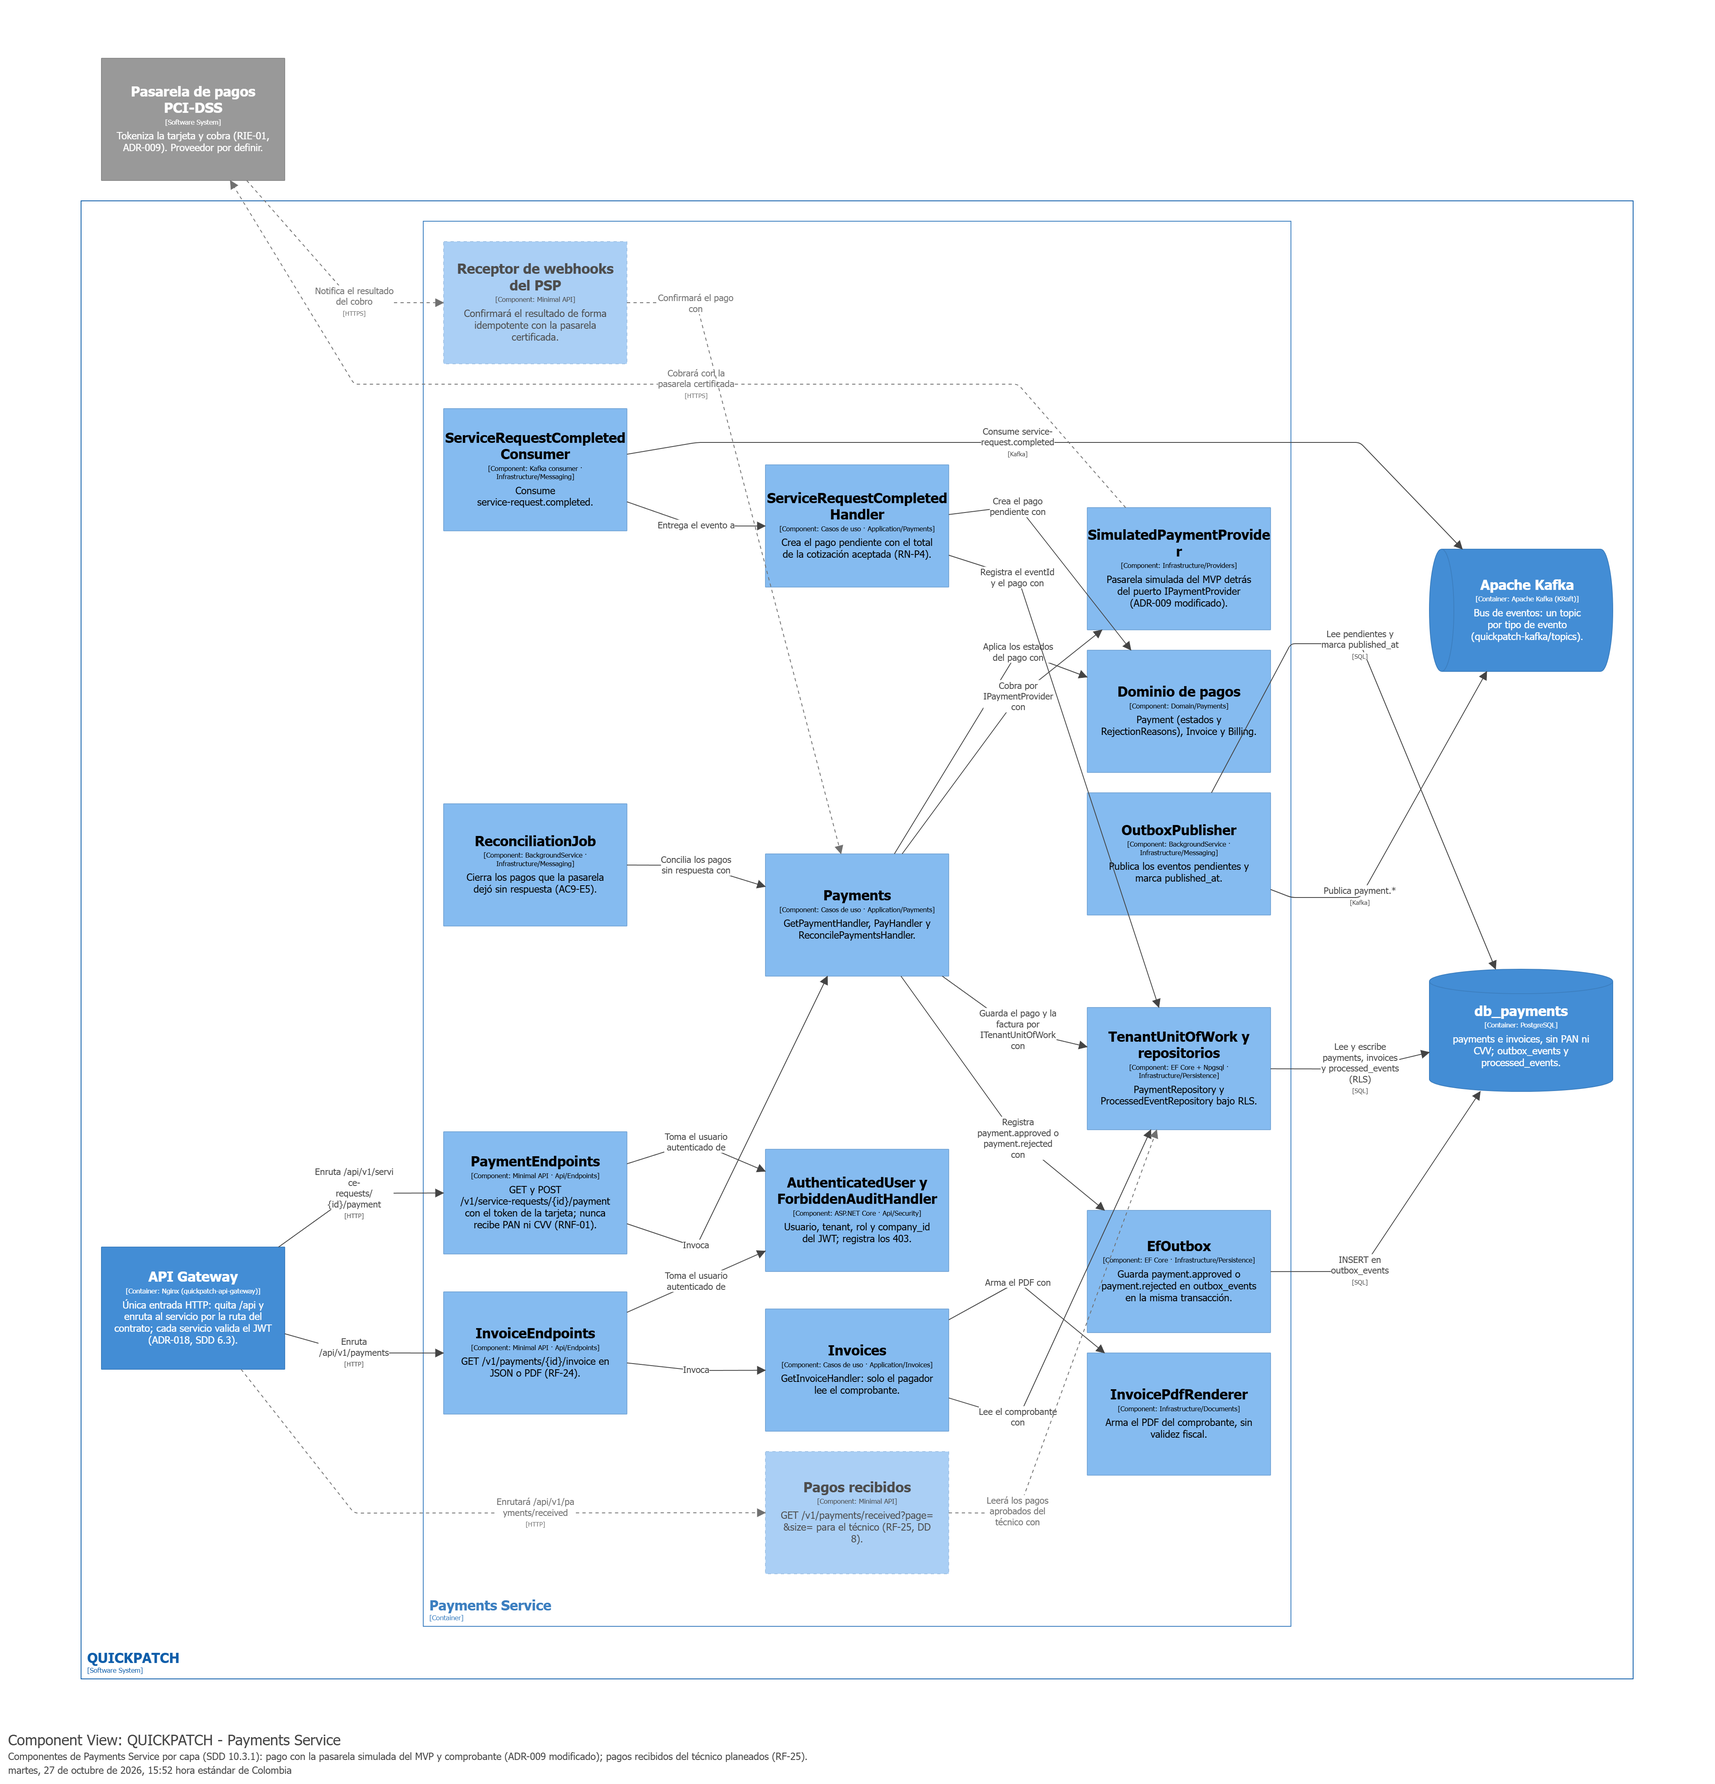
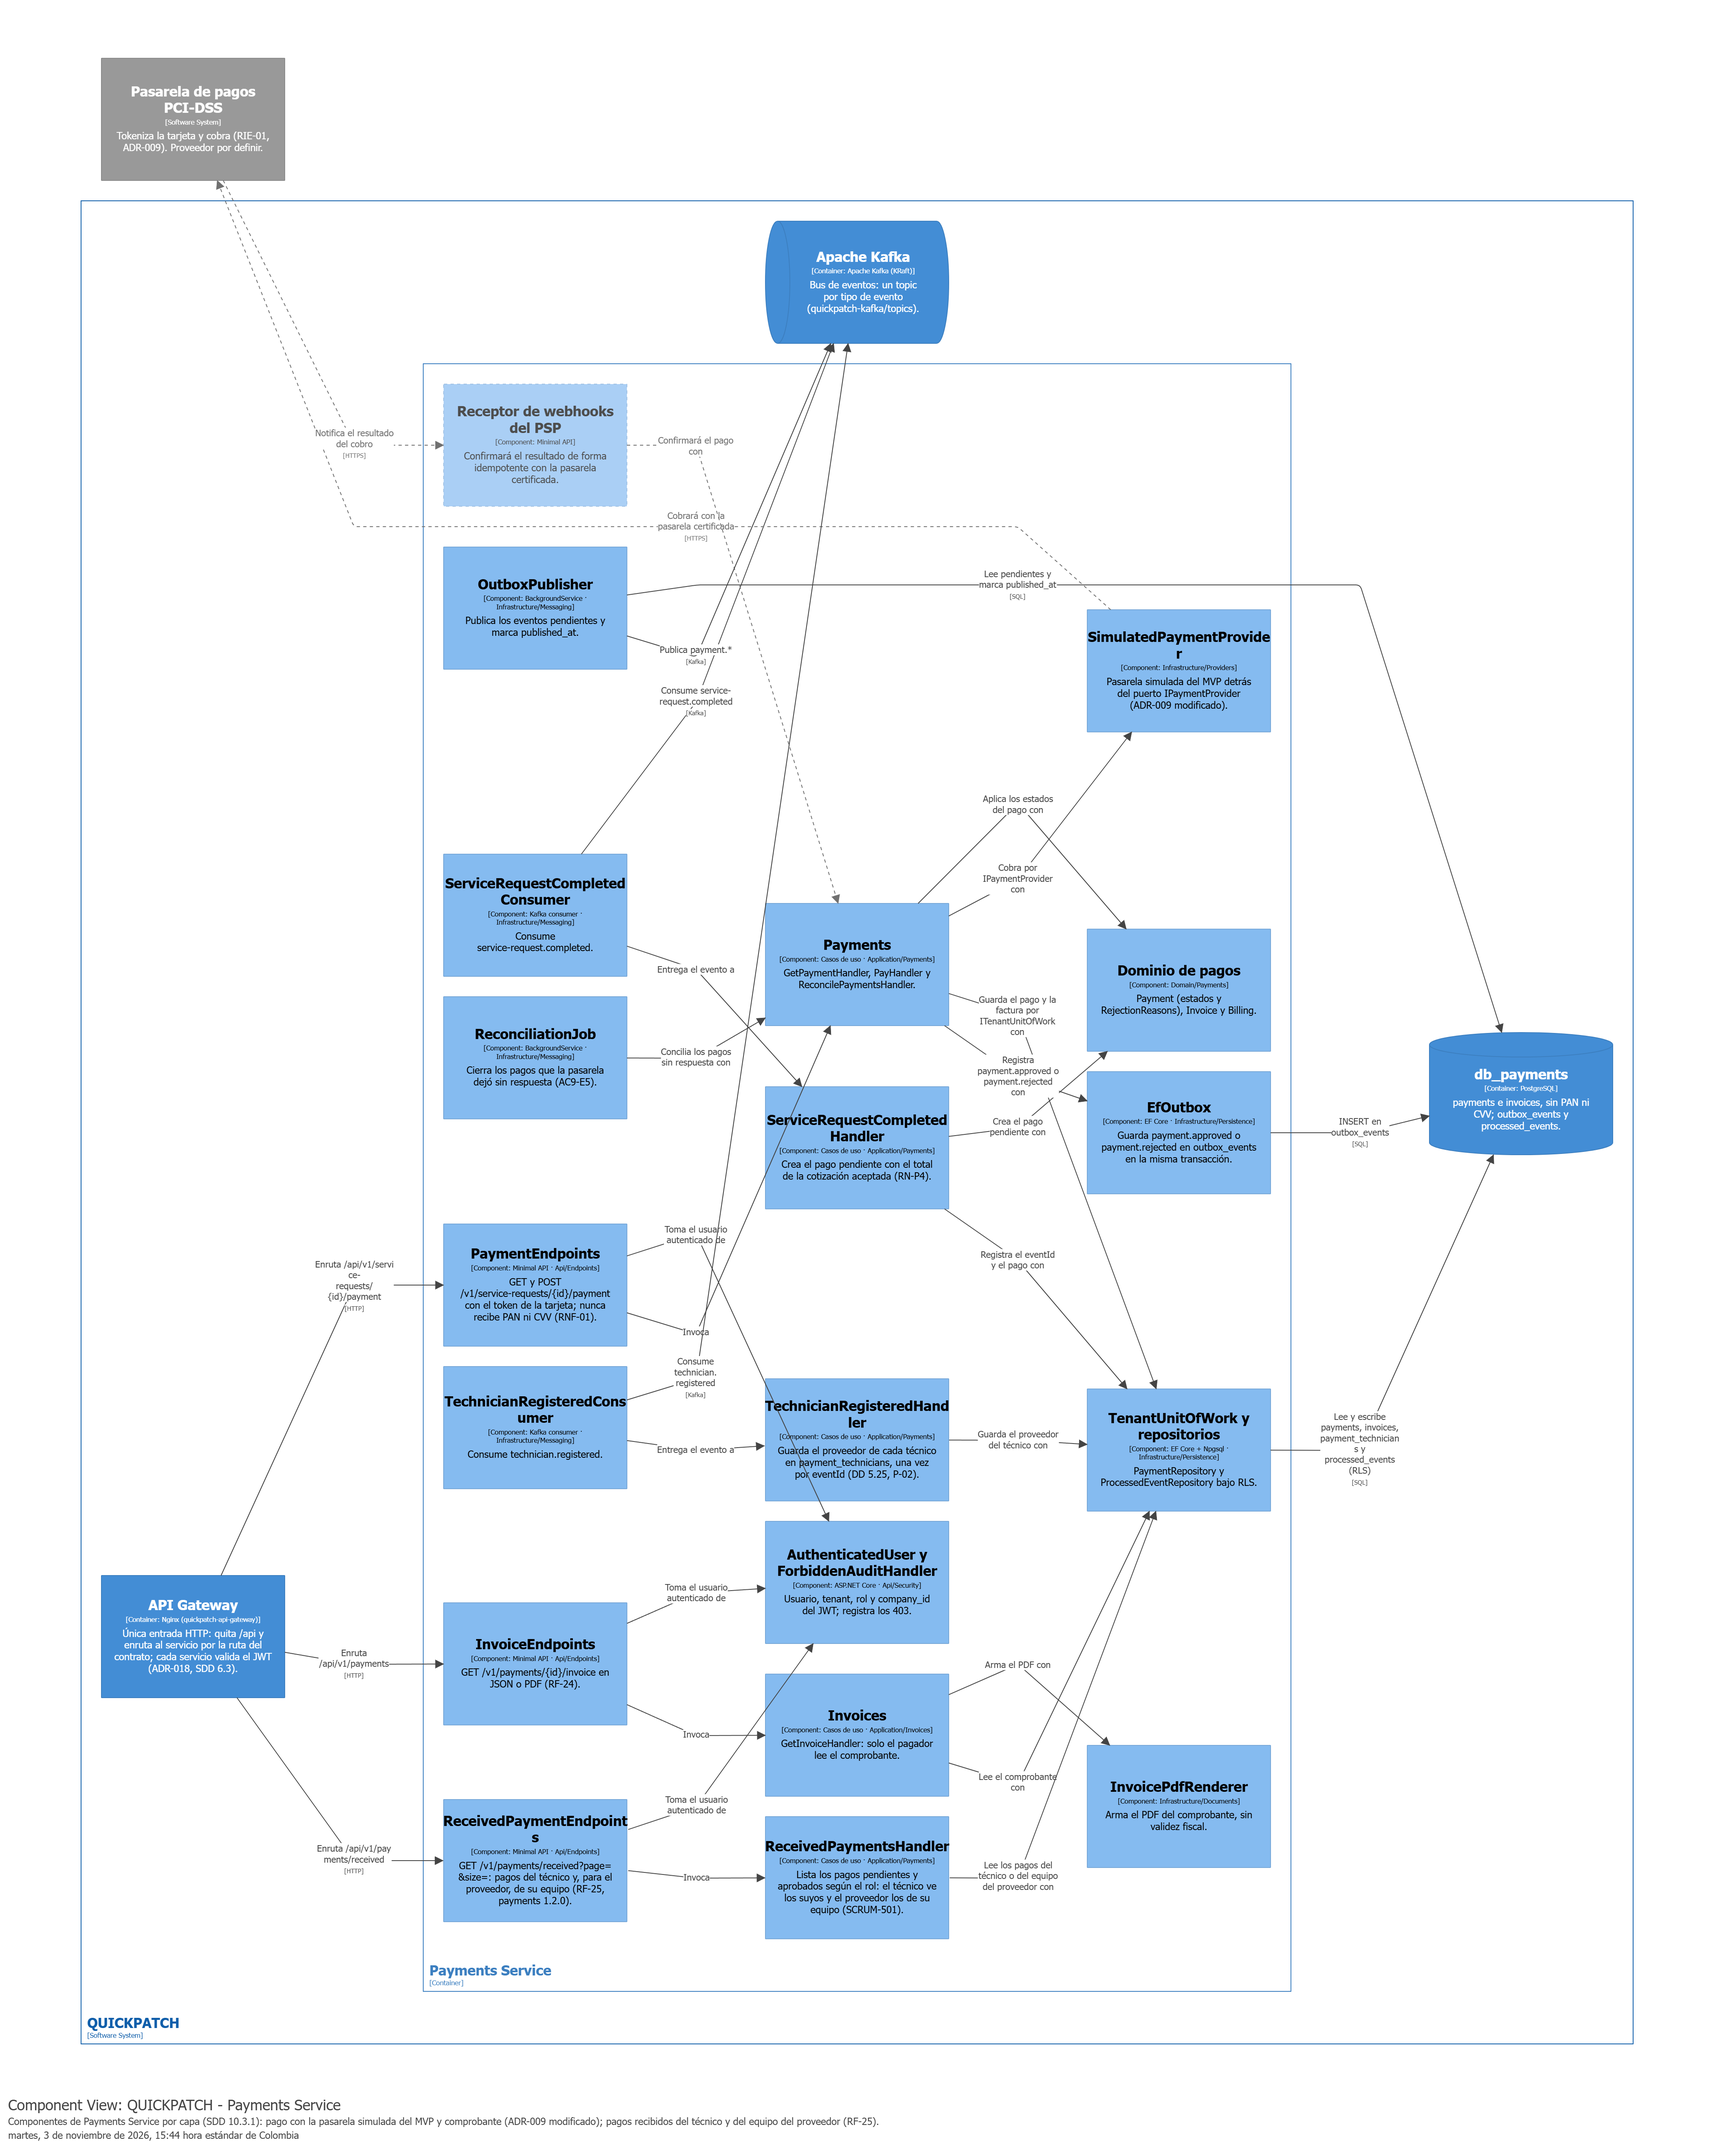
docs(c4): pagos recibidos de Payments y consumidores reales de Communication (SCRUM-584)
Payments: los pagos recibidos pasan de planeados a sus clases reales
(ReceivedPaymentEndpoints, ReceivedPaymentsHandler y el consumidor de
technician.registered con payment_technicians, SCRUM-501). Communication
no consume payment.*: se listan los eventos de topics.yaml v0.10.0. SDD
6.10 al dia y figuras 3, 17 y 18 exportadas de nuevo.

diff --git a/docs/architecture/SDD.md b/docs/architecture/SDD.md
@@ -641,10 +641,11 @@ Implementado en `quickpatch-ranking` (SCRUM-498), con su base `db_ranking` bajo 
 |---|---|---|
 | `Payment` | `payments` | Estado de una operación de pago sin almacenar PAN/CVV. |
 | `Invoice` | `invoices` | Comprobante del pago aprobado, con el NIT si el pagador es una empresa; el PDF se genera al pedirlo. |
+| `PaymentTechnician` | `payment_technicians` | Proyección del proveedor de cada técnico, alimentada por `technician.registered`, para los pagos recibidos del equipo (DD 5.25, P-02). |
 | `PaymentTokenReference` | Value Object | Referencia al token suministrado por el PSP. |
 | `PaymentStatus` | Value Object / Enum conceptual | Estado controlado de la transacción. |
 
-**Eventos:** `payment.approved`, `payment.rejected`.
+**Eventos:** publica `payment.approved` y `payment.rejected`; consume `service-request.completed` y `technician.registered`.
 
 **Componentes (C4).**
 
@@ -652,7 +653,7 @@ Implementado en `quickpatch-ranking` (SCRUM-498), con su base `db_ranking` bajo 
 
 **Figura 17. Componentes de Payments Service (C4 · Component). Vista `C4-04-Componentes-Payments`.**
 
-Implementado en el MVP con la pasarela simulada (ADR-009 modificado; SCRUM-115 y SCRUM-493): la app tokeniza la tarjeta y a Payments solo llega el token (RNF-01). El adaptador cobra detrás del mismo puerto que usará la pasarela certificada, que sigue planeada junto con su receptor de webhooks; mientras tanto, una conciliación programada cierra los pagos que quedaron sin respuesta. El pago se abre al consumir `service-request.completed`, publica `payment.approved` o `payment.rejected` por el Outbox y emite el comprobante en JSON o PDF, sin validez fiscal (RF-24). Payments 0.1.1 está en QA (SAD 2.2, RNF-01).
+Implementado en el MVP con la pasarela simulada (ADR-009 modificado; SCRUM-115 y SCRUM-493): la app tokeniza la tarjeta y a Payments solo llega el token (RNF-01). El adaptador cobra detrás del mismo puerto que usará la pasarela certificada, que sigue planeada junto con su receptor de webhooks; mientras tanto, una conciliación programada cierra los pagos que quedaron sin respuesta. El pago se abre al consumir `service-request.completed`, publica `payment.approved` o `payment.rejected` por el Outbox y emite el comprobante en JSON o PDF, sin validez fiscal (RF-24). Desde el Sprint 5 expone también los pagos recibidos (`GET /v1/payments/received`, payments 1.2.0, RF-25, SCRUM-501): `ReceivedPaymentEndpoints` y `ReceivedPaymentsHandler` devuelven al técnico sus pagos pendientes y aprobados y al proveedor los de su equipo, que Payments conoce por `TechnicianRegisteredConsumer` sin llamar a Identity (ADR-017). Payments 0.3.0 está en QA (SAD 2.2, RNF-01).
 
 ## 6.11 Communication Service
 
@@ -2205,6 +2206,7 @@ La V4 lleva el documento al Sprint 5 y responde a las observaciones del profesor
 | Escenario de asignación del técnico con pasos numerados y eventos por nombre | 8 (figura 22b) | SCRUM-590 |
 | Componentes del Sprint 5, dinámica de la calificación y despliegue real | 6, 8 (figura 27) y 9 | SCRUM-549 y SCRUM-550 |
 | Componentes reales de la calificación: ServiceRequest, Ranking e Identity | 6.4, 6.7 y 6.9 (figuras 10, 13 y 16) | SCRUM-584 |
+| Pagos recibidos de Payments con sus clases reales (`ReceivedPaymentEndpoints`, `ReceivedPaymentsHandler`, `TechnicianRegisteredConsumer` y `TechnicianRegisteredHandler`) y los consumidores reales de Communication, sin `payment.*` | 6.10 (figura 17), figura 18 y figura 3 | SCRUM-584 |
 | Observaciones 1 a 3 de la revisión funcional del PO: sección 12 con la revisión de la V4, contratos de `v0.21.0`, los 20 eventos de `quickpatch-kafka` `v0.10.0` y RF-17, RF-25 y el buzón en la sección 8.13.5 | 5.6.1, 5.6.2, 8.13.5, 12 y 13.5 | SCRUM-548 |
 | Auditoría previa a la revisión del PO: estado del documento, calificación implementada en la matriz de escenarios, secuencia de extremo a extremo con el técnico y la calificación por Kafka (ADR-027), cuenta corporativa implementada, Ranking en la convención de paquetes y referencias corregidas | 1, 6.2, 6.7, 8.13.3, 8.13.4, 10.2, 11.4 y 13 | SCRUM-548 |
 
